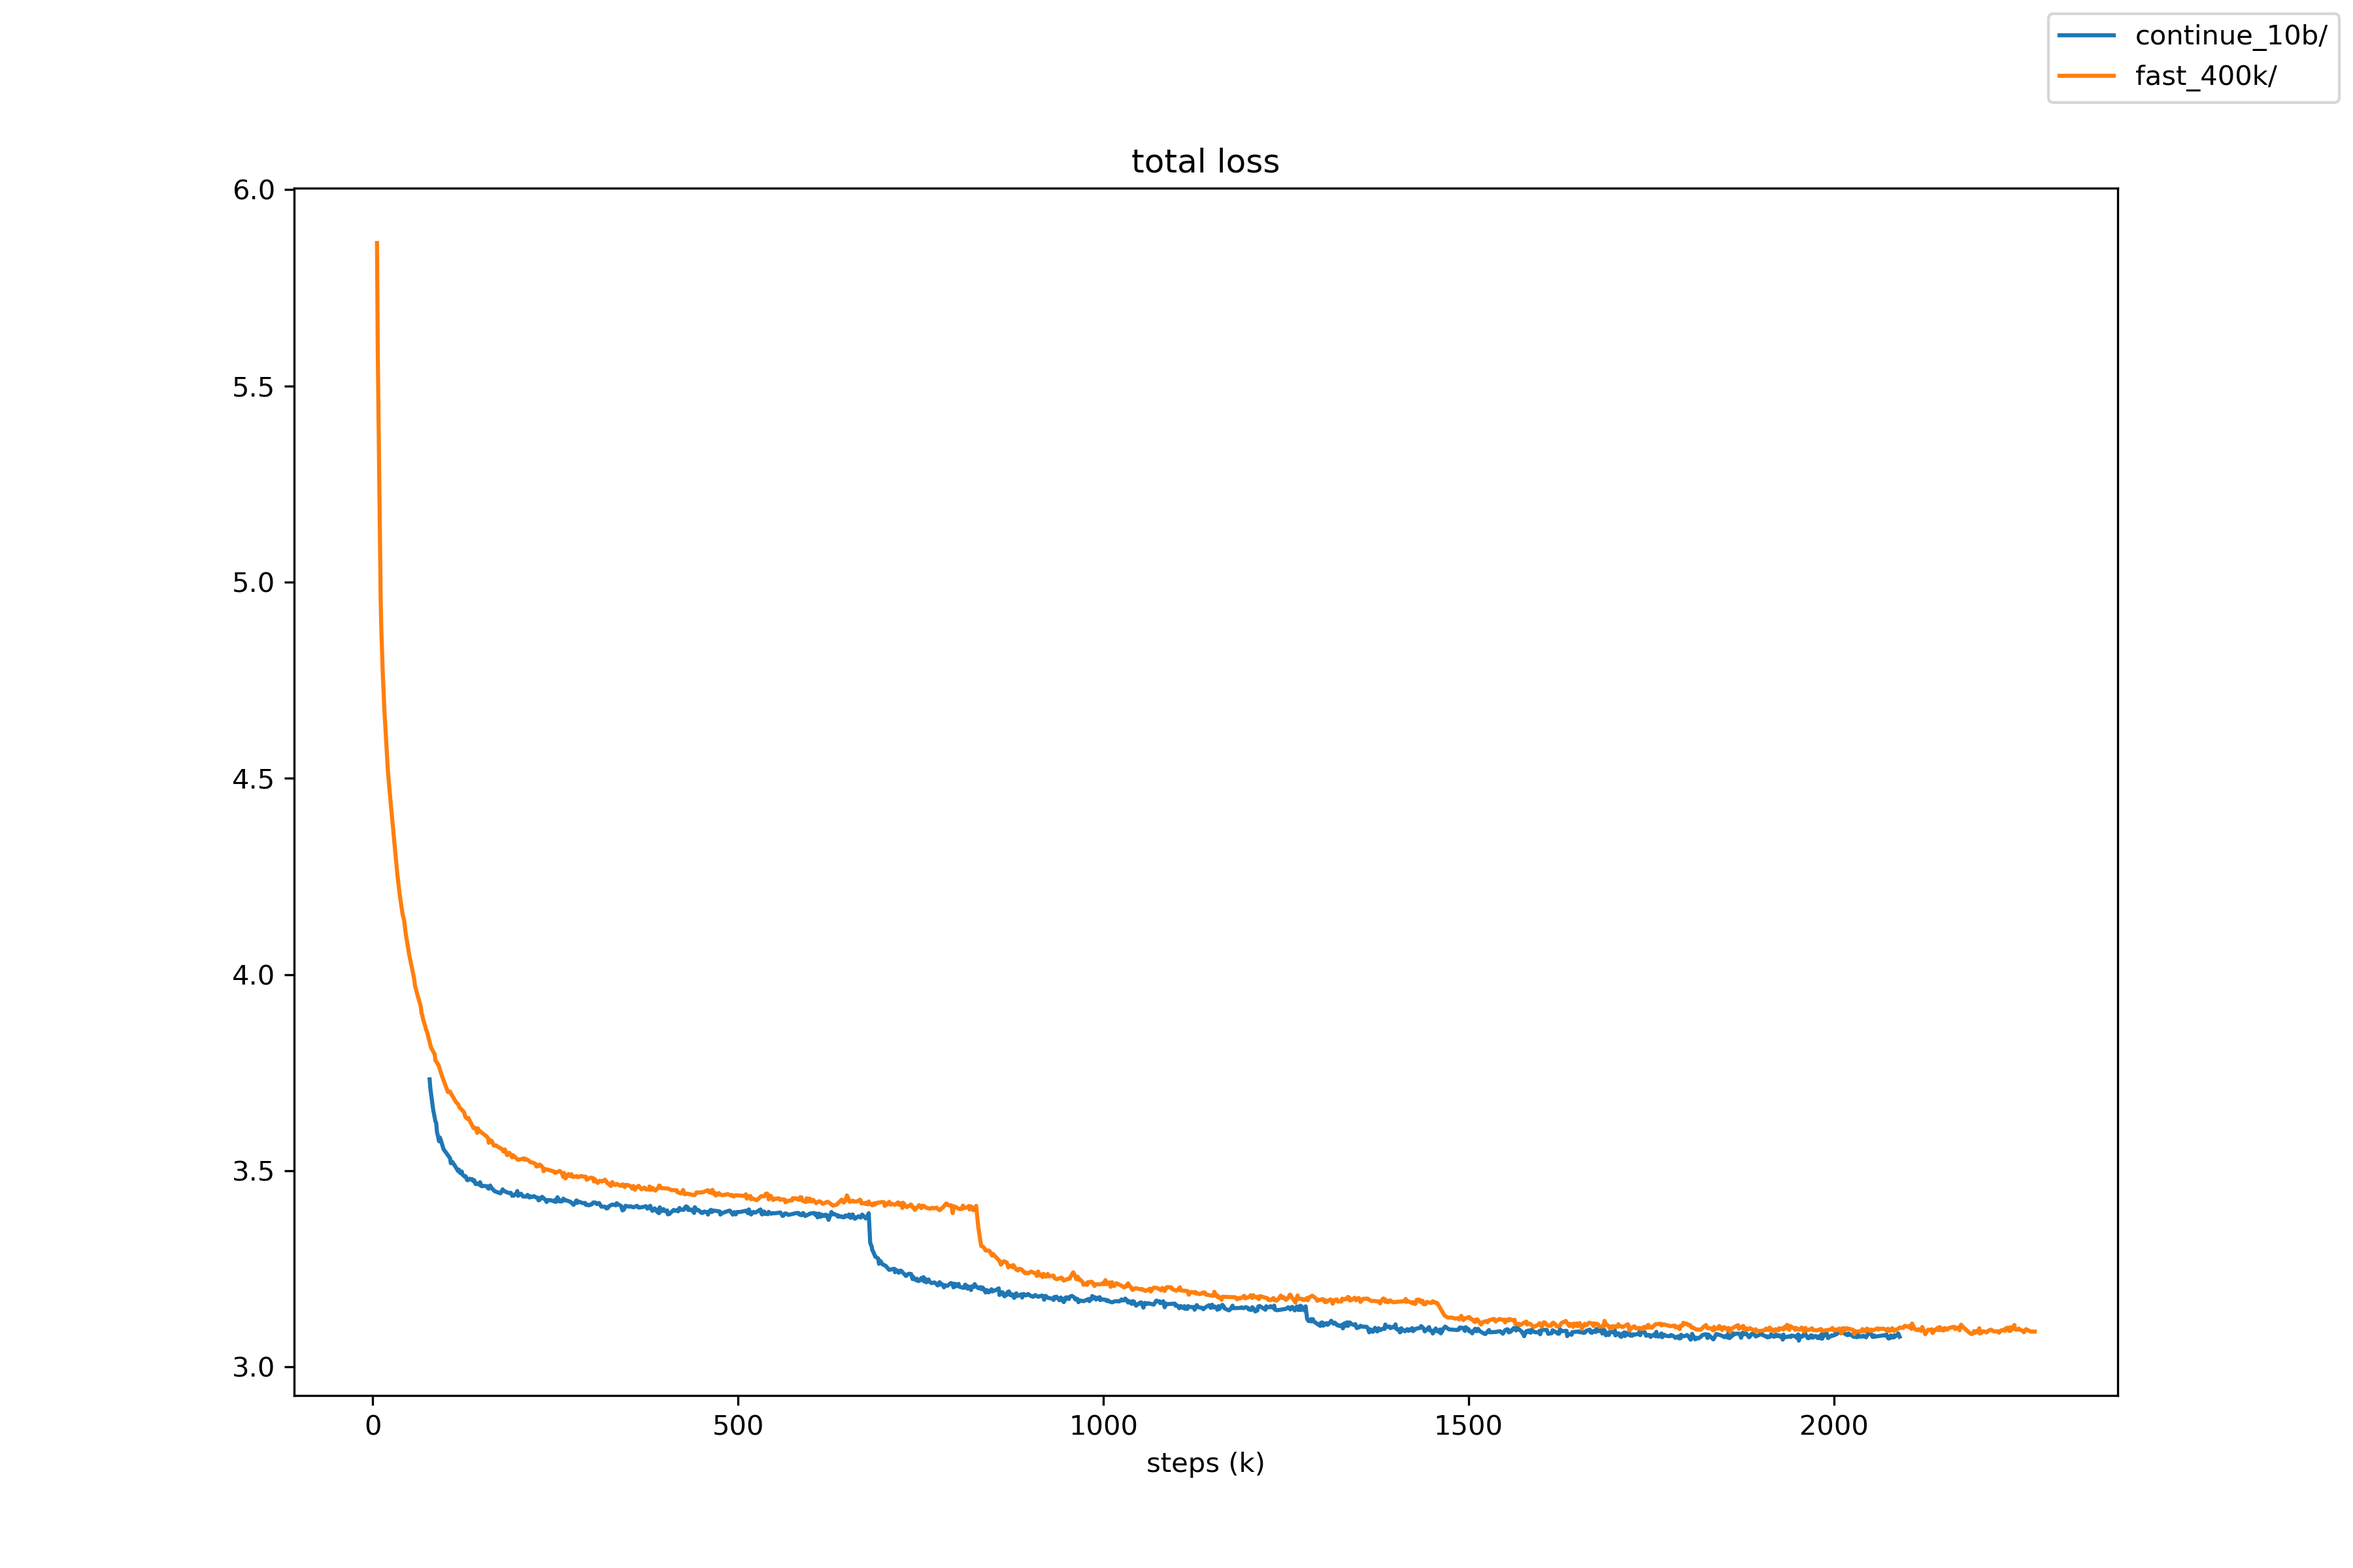
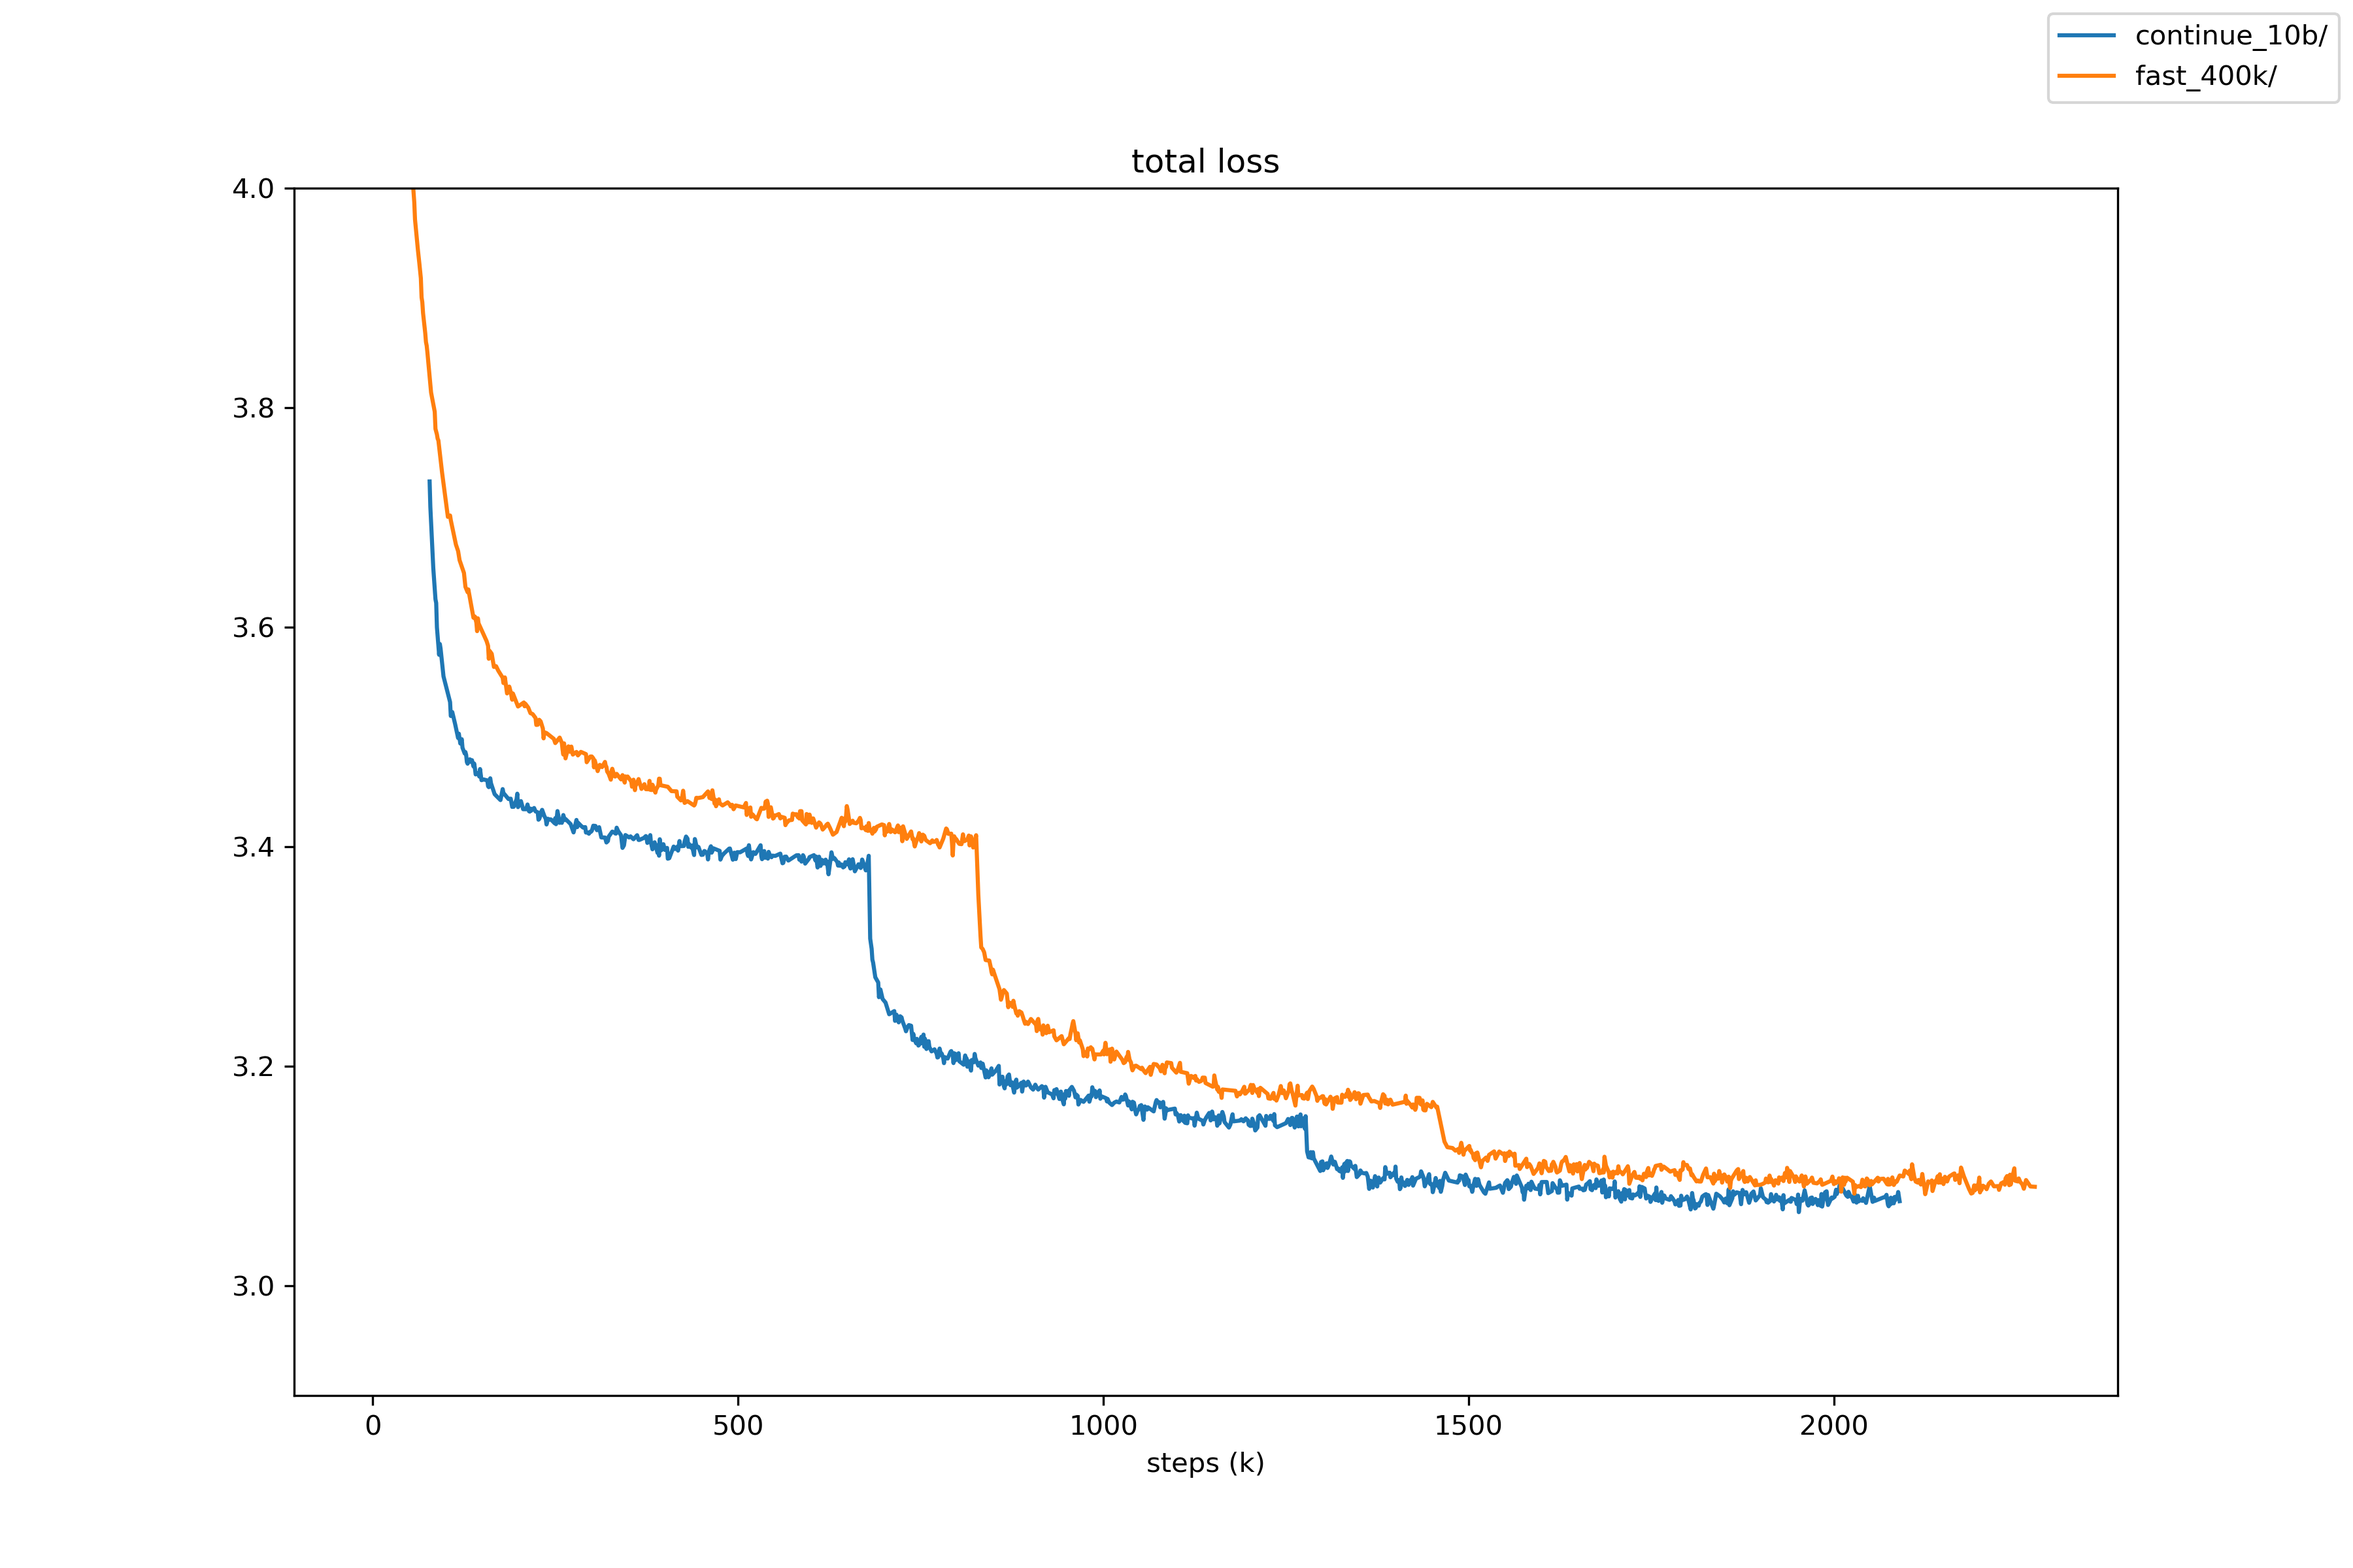
update graph

diff --git a/training/data_prepare/plot_train.py b/training/data_prepare/plot_train.py
@@ -18,10 +18,13 @@ def prepare_data(folder_name, file_name, fig_idx):
     plt.figure(fig_idx, figsize=(12, 8))
     if fig_idx == 1:
         plt.title("accuracy")
+        plt.ylim(0.35, 0.55)
     elif fig_idx == 2:
         plt.title("mse loss")
+        plt.ylim(0.155, 0.20)
     else:
         plt.title("total loss")
+        plt.ylim(2.9, 4)
 
     plt.xlabel("steps (k)")
     plt.plot(step, value, label=folder_name[7:])

diff --git a/training/README.md b/training/README.md
@@ -3,7 +3,7 @@
 - [x] [continue from last 10b](https://github.com/godmoves/HappyGo/tree/lz/training/continue_last_10b)
 - [x] [phoenixgo weight test](https://github.com/godmoves/HappyGo/tree/lz/training/phgo_weight)
 - [x] [test different engines](https://github.com/godmoves/HappyGo/tree/lz/training/engine_test)
-- [x] [reproducibility]((https://github.com/godmoves/HappyGo/tree/lz/training/different_steps))
+- [x] [reproducibility](https://github.com/godmoves/HappyGo/tree/lz/training/different_steps)
 - [ ] with/without ELF data
 - [x] [quick/slow learning rate drop](https://github.com/godmoves/HappyGo/tree/lz/training/different_steps)
 - [ ] different weight of value part (10, 1, 0.1, 0.01)
